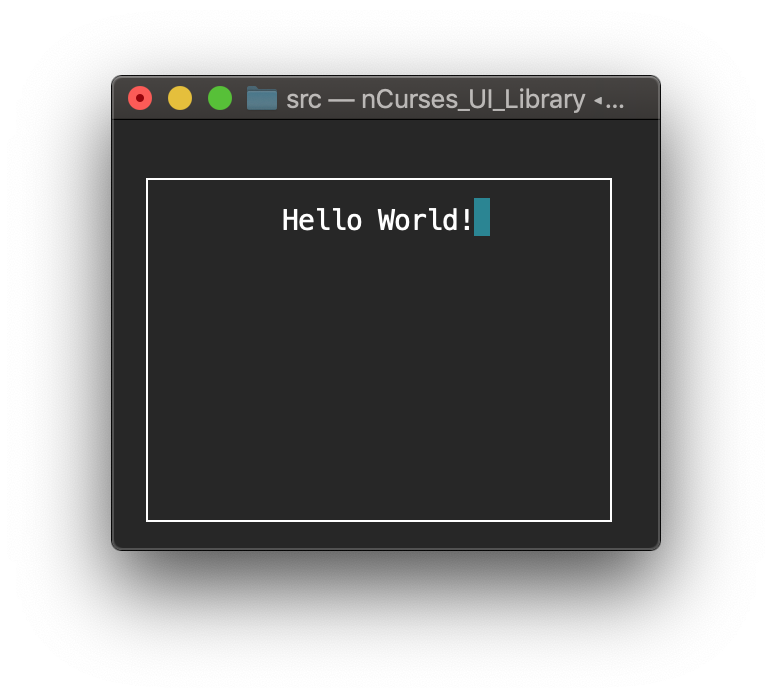
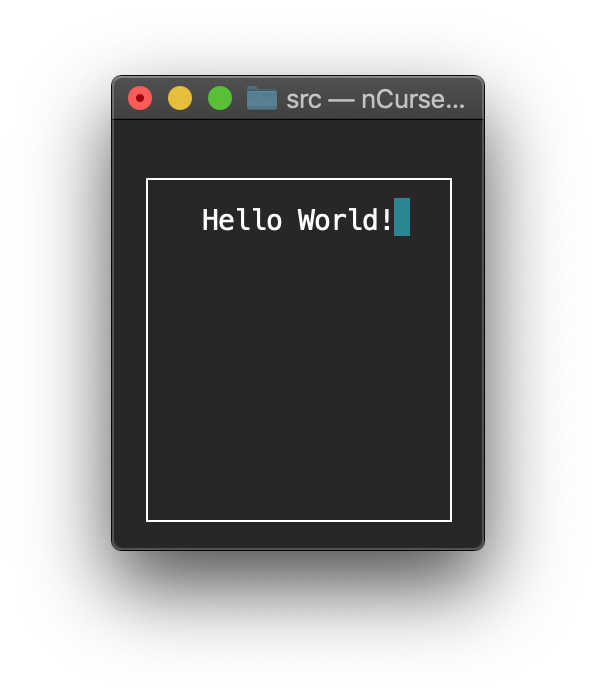
Update example items

Changed region(s): [[0.0906, 0.0903, 0.906, 0.8424], [0.3322, 0.2708, 0.6946, 0.361], [0.2416, 0.2708, 0.2718, 0.7221]]

diff --git a/README.md b/README.md
@@ -32,11 +32,10 @@ This example shows how simple it is to make a titled window with centered text.
 int main()
 {
     UI ui;
-    ui.make_new_window (1, 1, 30, 20, "Main Window", true);
+    ui.make_new_window (1, 1, 20, 10, "Main Window", true);
     ui.write_to_window (0, "Hello World!", false);
     ui.pause_until_input();
 }
-
 ```
 
 ![Small Example](./Images/Small-Example-Titled.png)
@@ -49,9 +48,8 @@ into the `make_new_window()` function and the window will not display a title
 
 ```C++
 ...
-ui.make_new_window (1, 1, 30, 20, "", true);
+ui.make_new_window (1, 1, 20, 10, "", true);
 ...
-
 ```
 
 ![Small Example](./Images/Small-Example-Non-Titled.png)
